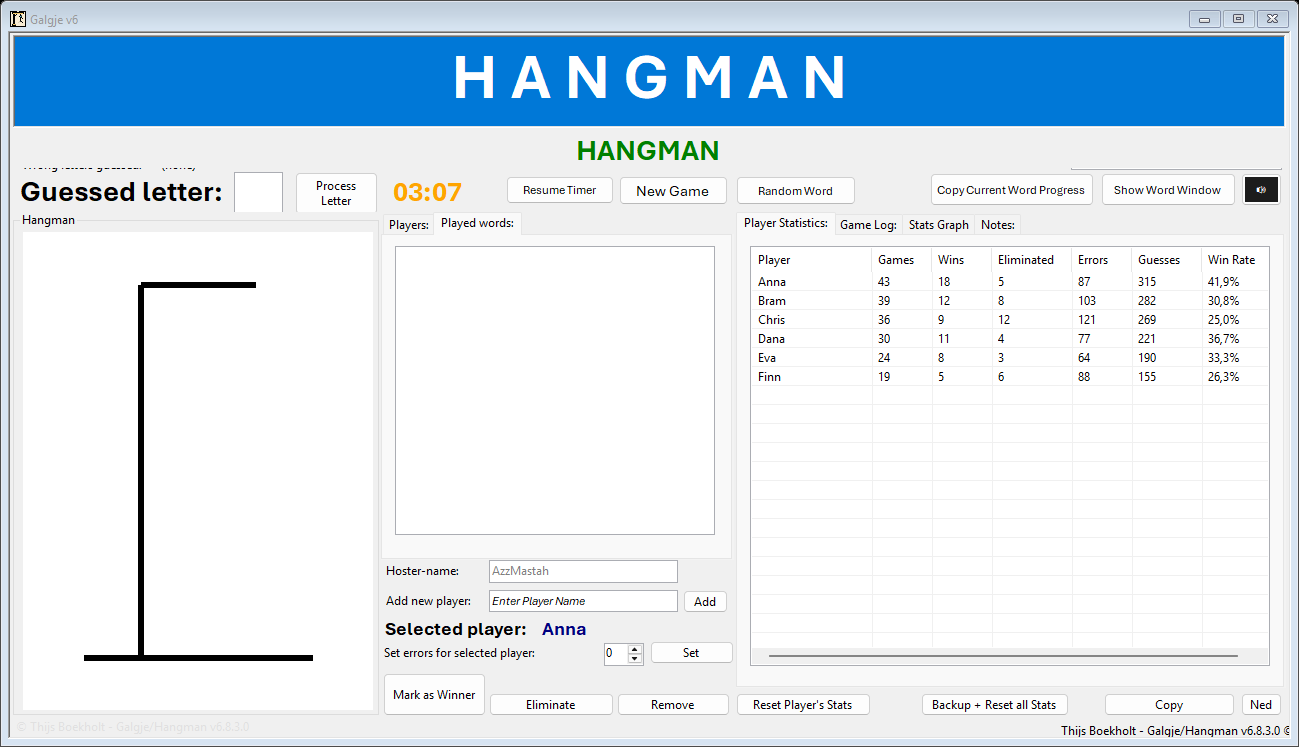
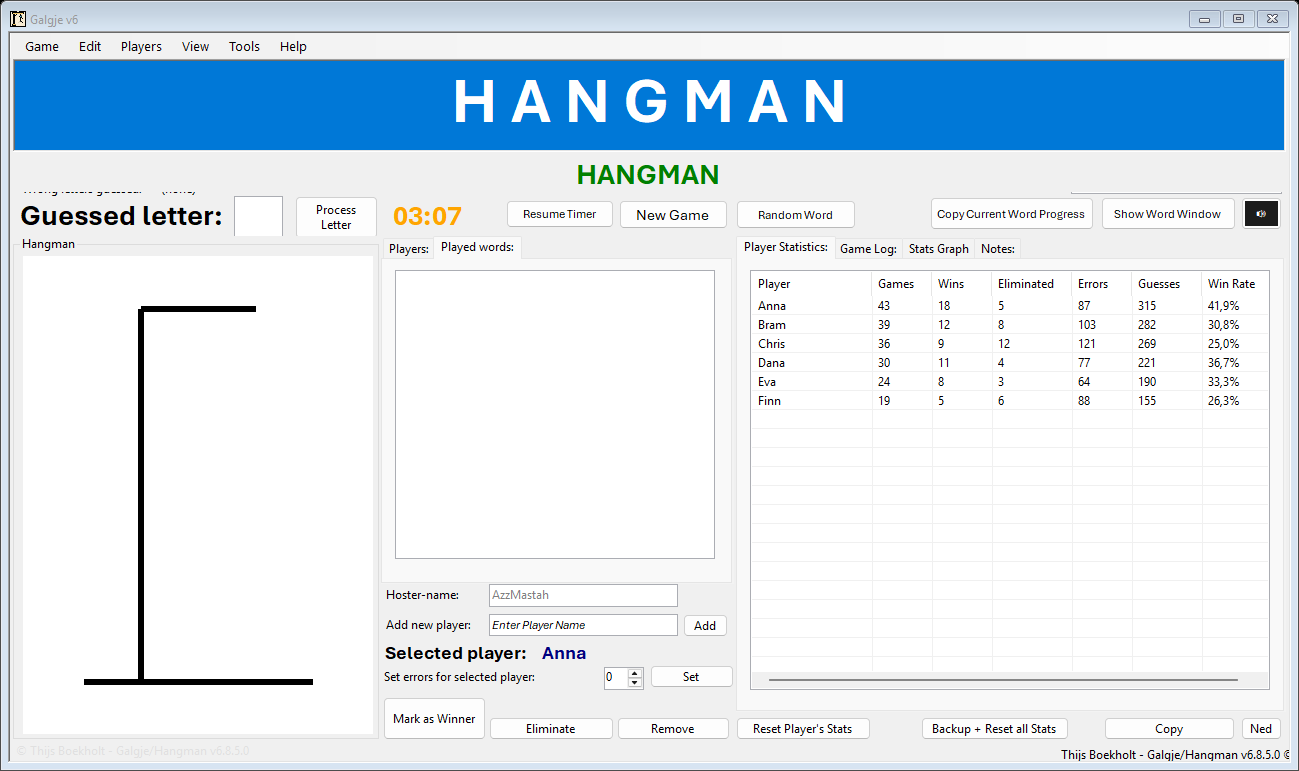
Galgje v6.8.5 - manual, screenshots, download README

diff --git a/manual.html b/manual.html
@@ -3,7 +3,7 @@
 <head>
   <meta charset="UTF-8">
   <meta name="viewport" content="width=device-width, initial-scale=1.0">
-  <title>Galgje v6.8.3 - User Manual</title>
+  <title>Galgje v6.8.5 - User Manual</title>
   <link rel="icon" href="app.ico" type="image/x-icon">
   <style>
     :root {
@@ -402,7 +402,7 @@
     <div class="sidebar-brand">
       <img src="app.ico" alt="Galgje icon" width="48" height="48">
       <h1>Galgje Manual</h1>
-      <p>Version 6.8.3 - Complete Guide</p>
+      <p>Version 6.8.5 - Complete Guide</p>
     </div>
     <nav>
       <div class="section">Getting Started</div>
@@ -445,7 +445,7 @@
     <div class="hero">
       <div class="badge">Official User Manual</div>
       <h2>Galgje - Advanced Hangman for Windows</h2>
-      <p>This manual covers every feature of Galgje v6.8.3: from your first game to advanced multiplayer sessions with timers, statistics, achievements, and the presentation Word Display window.</p>
+      <p>This manual covers every feature of Galgje v6.8.5: from your first game to advanced multiplayer sessions with timers, statistics, achievements, the presentation Word Display window, and the menu bar with settings.</p>
       <div class="tip"><strong>New users</strong> After installing, open this manual from the Start Menu shortcut <strong>User Manual - Import Your Own Stats</strong> (or the desktop shortcut created during setup). Jump to <a href="#replace-stats" style="color:var(--accent)">Import Your Own Stats</a> if you want to load your existing game history.</div>
       <figure class="hero-shot">
         <img src="screenshots/main-gameplay.png" alt="Galgje main window during active gameplay with hangman, players, and statistics">
@@ -469,7 +469,7 @@
       <h2>Installation</h2>
       <div class="steps">
         <div class="step"><div class="step-body"><h4>Install .NET 8 Desktop Runtime</h4><p>Download from <a href="https://dotnet.microsoft.com/download/dotnet/8.0/runtime" style="color:var(--accent)">dotnet.microsoft.com</a> if not already installed. The setup wizard checks this automatically.</p></div></div>
-        <div class="step"><div class="step-body"><h4>Run the Installer</h4><p>Download from <a href="https://github.com/AzzKickah84/Galgje-releases/releases" style="color:var(--accent)">GitHub Releases</a> or run <code>GalgjeSetup_v6.8.3.exe</code>. Follow the wizard.</p></div></div>
+        <div class="step"><div class="step-body"><h4>Run the Installer</h4><p>Download from <a href="https://github.com/AzzKickah84/Galgje-releases/releases" style="color:var(--accent)">GitHub Releases</a> or run <code>GalgjeSetup_v6.8.5.exe</code>. Follow the wizard.</p></div></div>
         <div class="step"><div class="step-body"><h4>Enable manual shortcuts</h4><p>Leave <strong>"Create a desktop shortcut to the User Manual"</strong> checked (on by default). The Start Menu always includes <strong>User Manual - Import Your Own Stats</strong>.</p></div></div>
         <div class="step"><div class="step-body"><h4>Open the manual after setup</h4><p>On the finish screen, tick <strong>Open the User Manual</strong> or launch it from Start Menu / Desktop. See <a href="#replace-stats" style="color:var(--accent)">Import Your Own Stats</a> to load your files.</p></div></div>
         <div class="step"><div class="step-body"><h4>Launch Galgje</h4><p>Open from the Start Menu or Desktop. On first run, Galgje creates data files in your user profile (see <a href="#data" style="color:var(--accent)">Data Locations</a>).</p></div></div>
@@ -1036,7 +1036,7 @@ Session notes go here.</pre>
     </section>
 
     <footer>
-      <p>© 2025 Thijs Boekholt - Galgje v6.8.3 User Manual</p>
+      <p>© 2026 Thijs Boekholt - Galgje v6.8.5 User Manual</p>
       <p>See also: <a href="press-release.html" style="color:var(--accent)">Press Release</a> · <a href="CHANGELOG.md" style="color:var(--accent)">Changelog</a></p>
     </footer>
 

diff --git a/README.md b/README.md
@@ -8,15 +8,15 @@ This repository contains **installers and documentation only**. Galgje source co
 
 **[View manual online](https://azzkickah84.github.io/Galgje-releases/manual.html)** - full HTML guide including stats import walkthrough.
 
-## Latest version (v6.8.3)
+## Latest version (v6.8.5)
 
 | File | Description |
 |------|-------------|
-| [GalgjeSetup_v6.8.3.exe](https://github.com/AzzKickah84/Galgje-releases/releases/download/v6.8.3/GalgjeSetup_v6.8.3.exe) | Windows installer (~5.89 MB) |
+| [GalgjeSetup_v6.8.5.exe](https://github.com/AzzKickah84/Galgje-releases/releases/download/v6.8.5/GalgjeSetup_v6.8.5.exe) | Windows installer (~5.9 MB) |
 | [manual.html](https://azzkickah84.github.io/Galgje-releases/manual.html) | User manual with screenshots |
-| [CHANGELOG.md](https://github.com/AzzKickah84/Galgje-releases/releases/download/v6.8.3/GalgjeSetup_v6.8.3.exe) | See release assets on [Releases](https://github.com/AzzKickah84/Galgje-releases/releases) |
+| [CHANGELOG.md](https://github.com/AzzKickah84/Galgje-releases/releases/download/v6.8.5/GalgjeSetup_v6.8.5.exe) | See release assets on [Releases](https://github.com/AzzKickah84/Galgje-releases/releases) |
 
-**Direct installer link:** https://github.com/AzzKickah84/Galgje-releases/releases/download/v6.8.3/GalgjeSetup_v6.8.3.exe
+**Direct installer link:** https://github.com/AzzKickah84/Galgje-releases/releases/download/v6.8.5/GalgjeSetup_v6.8.5.exe
 
 ## Requirements
 
@@ -25,10 +25,10 @@ This repository contains **installers and documentation only**. Galgje source co
 
 ## Verify download (optional)
 
-SHA-256 (`GalgjeSetup_v6.8.3.exe`):
+SHA-256 (`GalgjeSetup_v6.8.5.exe`):
 
 `
[2 lines of base64/hex data omitted]
 `
 
 ## Author
